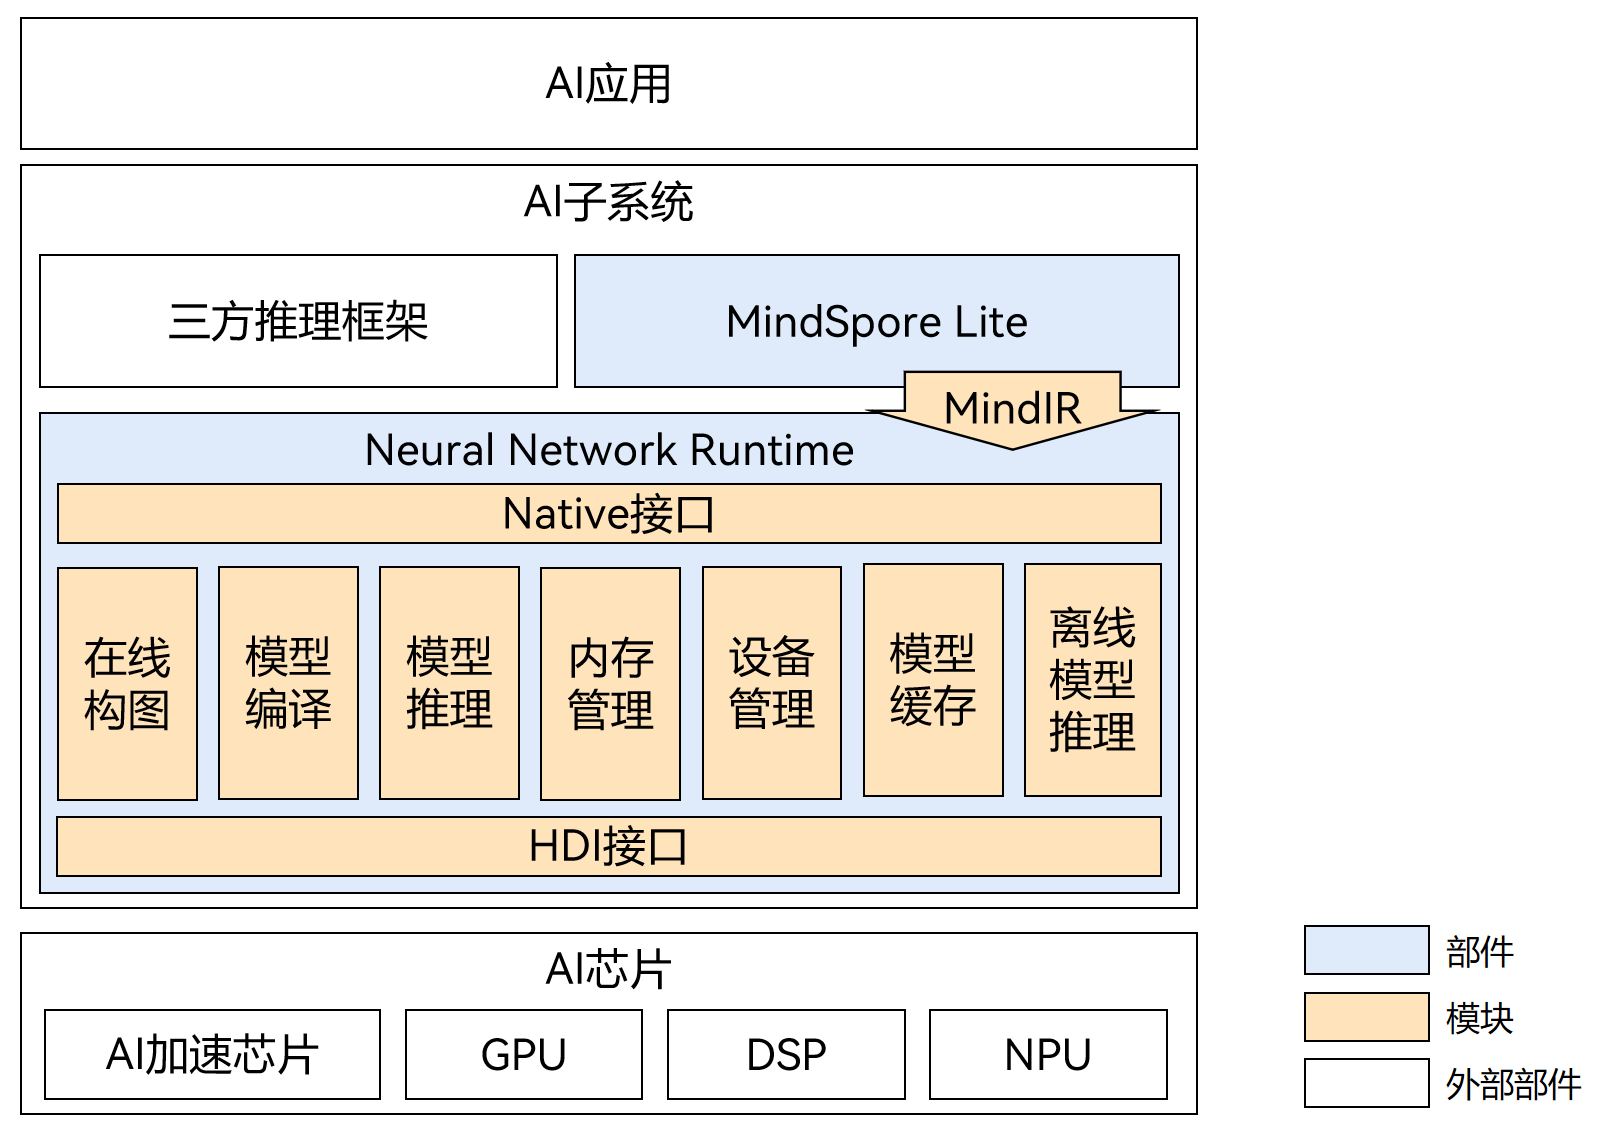
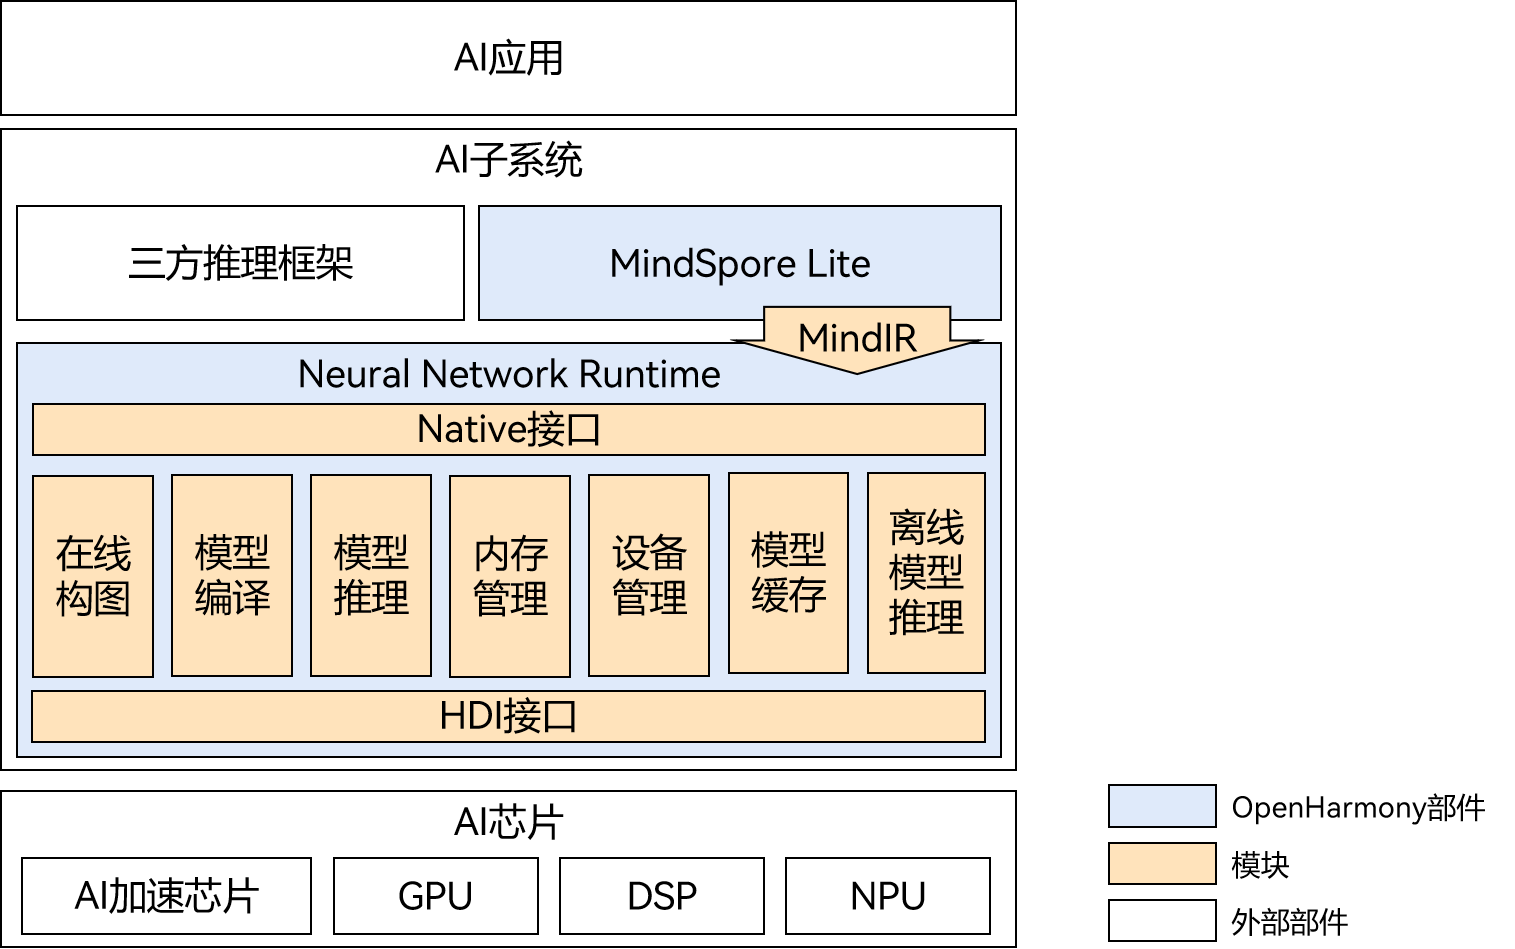
!4 更新项目和南向开发指导的README * update readme file.

Changed region(s): [[0.0, 0.0, 0.9927, 1.0]]

diff --git a/README_zh.md b/README_zh.md
@@ -2,11 +2,11 @@
 
 ## 简介
 
-Neural Network Runtime（NNRt, 神经网络运行时）是一套面向AI领域的加速推理框架，支持在各种端侧AI加速芯片上的推理计算；NNRt作为上层AI推理框架和底层加速芯片中间的桥梁，为端侧AI推理框架提供统一的Native接口，并使能AI推理框架的硬件加速推理；NNRt开放了南向HDI接口，便于端侧AI加速芯片直接接入OpenHarmony硬件生态。
+Neural Network Runtime（NNRt, 神经网络运行时）是面向AI领域的跨芯片推理计算运行时，作为中间桥梁连通上层AI推理框架和底层加速芯片，实现AI模型的跨芯片推理计算。
 
-如图1所示，NNRt北向对接了[MindSpore Lite](https://gitee.com/openharmony/third_party_mindspore)推理框架，同时开放Native接口对接其他端侧推理框架（Tensorflow Lite等）;NNRt南向开放了HDI接口，支持各种AI加速芯片（NPU、DSP等）对接。AI应用层通过AI推理框架和NNRt能直接使用底层AI加速芯片加速推理计算。
+如图1所示，NNRt开放北向Native接口供AI推理框架接入，当前NNRt对接了系统内置的[MindSpore Lite](https://gitee.com/openharmony/third_party_mindspore)推理框架。同时NNRt开放南向HDI接口，供端侧AI加速芯片（如NPU、DSP等）接入OpenHarmony硬件生态。AI应用通过AI推理框架和NNRt能直接使用底层芯片加速推理计算。
 
-Neural Network Runtime与MindSpore Lite使用[MindIR](https://gitee.com/openharmony/third_party_mindspore)来统一两个框架间的模型中间表达，减少中间过程不必要的模型转换，使得模型传递更加高效。
+Neural Network Runtime与MindSpore Lite使用统一的模型中间表达，减少中间过程不必要的模型转换，使得模型传递更加高效。
 
 通常，AI应用、AI推理引擎、Neural Network Runtime处在同一个进程下，芯片驱动运行在另一个进程下，两者之间需要借助进程间通信（IPC）传递模型和计算数据。Neural Network Runtime根据HDI接口实现了HDI客户端，相应的，芯片厂商需要根据HDI接口实现并开放HDI服务。
 
@@ -48,16 +48,14 @@ Neural Network Runtime与MindSpore Lite使用[MindIR](https://gitee.com/openharm
 
 ### 接口说明
 
-Native接口文档请参考：
-- 待补充，正在评审翻译。
+Native接口文档请参考：[Native接口](https://gitee.com/openharmony-sig/interface_native_header/pulls/182)。
 
-HDI接口文档请参考：
-- 待补充，正在评审翻译。
+HDI接口文档请参考：[HDI接口](https://gitee.com/openharmony-sig/interface_native_header/pulls/179)。
 
 ### 使用说明
 
-- AI推理引擎/应用开发请参考：[Neural Network Runtime开发指导](./neural-network-runtime-guidelines.md)
-- AI加速芯片驱动/设备开发请参考：[Neural Network Runtime设备开发指导](./example/drivers/README_zh.md)
+- AI推理引擎/应用开发请参考：[Neural Network Runtime应用开发指导](./neural-network-runtime-guidelines.md)。
+- AI加速芯片驱动/设备开发请参考：[Neural Network Runtime设备开发指导](./example/drivers/README_zh.md)。
 
 ## 相关仓
 
